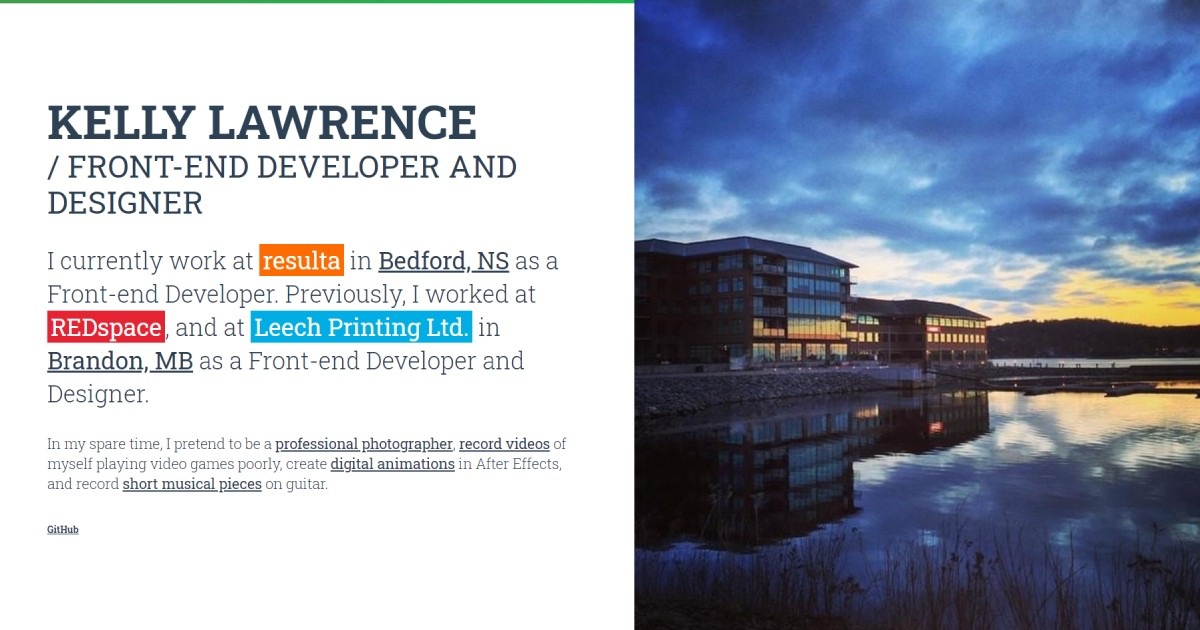
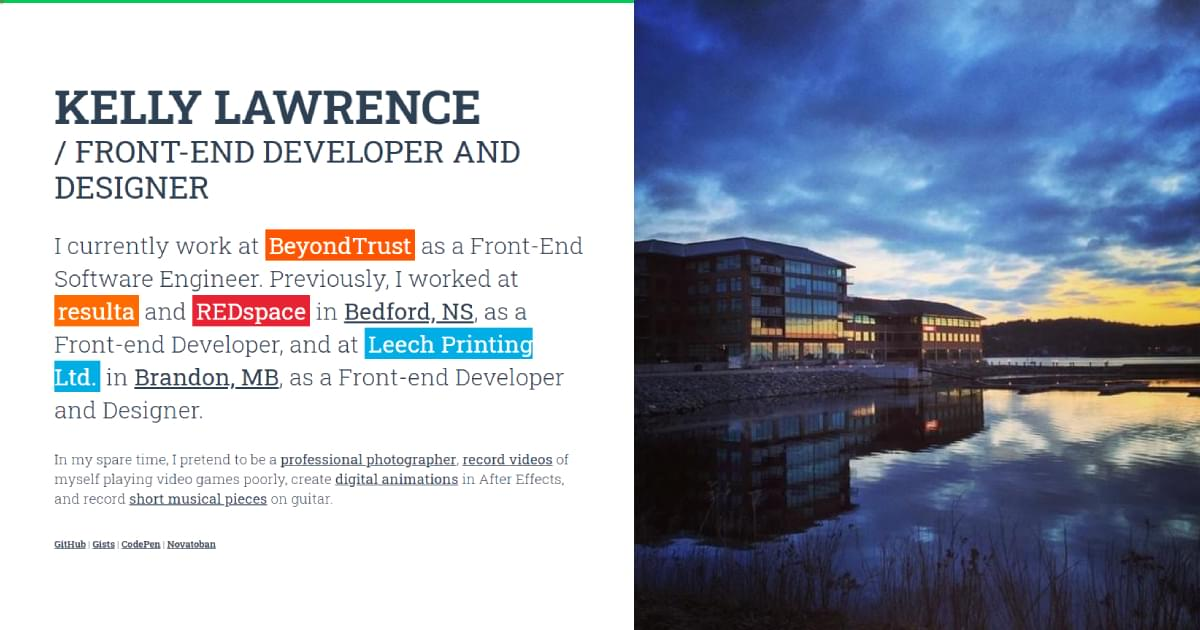
Update employment history

diff --git a/style.css b/style.css
@@ -1,2 +1,2 @@
-a,abbr,acronym,address,applet,article,aside,audio,b,big,blockquote,body,canvas,caption,center,cite,code,dd,del,details,dfn,div,dl,dt,em,embed,fieldset,figcaption,figure,footer,form,h1,h2,h3,h4,h5,h6,header,hgroup,html,i,iframe,img,ins,kbd,label,legend,li,mark,menu,nav,object,ol,output,p,pre,q,ruby,s,samp,section,small,span,strike,strong,sub,summary,sup,table,tbody,td,tfoot,th,thead,time,tr,tt,u,ul,var,video{margin:0;padding:0;border:0;font-size:100%;font:inherit;vertical-align:baseline}article,aside,details,figcaption,figure,footer,header,hgroup,menu,nav,section{display:block}body{line-height:1}ol,ul{list-style:none}blockquote,q{quotes:none}blockquote:after,blockquote:before,q:after,q:before{content:"";content:none}table{border-collapse:collapse;border-spacing:0}a{font-weight:400}body{font-family:Roboto Slab,serif;font-size:16px;line-height:1.4}h1{font-size:calc(1.65vw + 1.65vh);line-height:1.15;text-transform:uppercase}@media (max-width:767px){h1{font-size:calc(2.5vw + 2.5vh)}}@media (min-width:1921px){h1{font-size:calc(1.25vw + 1.25vh)}}h1 strong{font-size:1.5em;font-weight:700}p{font-size:calc(.75vw + .75vh);font-weight:300}@media (max-width:767px){p{font-size:calc(1.5vw + 1.5vh)}}@media (min-width:1921px){p{font-size:calc(.5vw + .5vh)}}strong{font-weight:600}.intro{font-size:calc(1.25vw + 1.25vh)}@media (max-width:767px){.intro{font-size:calc(2vw + 2vh)}}@media (min-width:1921px){.intro{font-size:calc(1vw + 1vh)}}.location{font-weight:100}.location a{font-weight:400;text-decoration:none}.web-presence{font-size:calc(.5vw + .5vh)}@media (max-width:767px){.web-presence{font-size:calc(1vw + 1vh)}}.web-presence a{font-weight:700}.employer{text-decoration:none}::-moz-selection{background-color:#2e4154;color:#fff}::selection{background-color:#2e4154;color:#fff}@media (prefers-color-scheme:dark){::-moz-selection{background-color:#b8cad8}::selection{background-color:#b8cad8}}a{color:#2e4154}@media (prefers-color-scheme:dark){a{color:#b8cad8}}a:hover{background-color:#2e4154;color:#fff}@media (prefers-color-scheme:dark){a:hover{background-color:#b8cad8;color:#181a1b}}body{color:#2e4154}@media (prefers-color-scheme:dark){body{background-color:#181a1b;color:#b8cad8}}@media (min-width:768px){body{width:100%}}body,html{height:100%}h1 strong{display:block}iframe{height:100%;left:-25%;position:relative;width:150%}video{width:100%}.content{align-items:center;display:flex;height:100%;justify-content:center;padding:0 4%;width:42%}.content:before{position:absolute;top:0}@media (max-width:767px){.content{padding:0 5%;width:90%}}.gradient-animation{-webkit-animation:AnimationName 15s ease infinite;animation:AnimationName 15s ease infinite;background:linear-gradient(90deg,#ff6b00,#00aee5,#e72233,#0c5);background-size:1000% 1000%;height:.5%;position:absolute;top:0;width:100%;z-index:0}@-webkit-keyframes AnimationName{0%{background-position:0 50%}50%{background-position:100% 50%}to{background-position:0 50%}}@keyframes AnimationName{0%{background-position:0 50%}50%{background-position:100% 50%}to{background-position:0 50%}}.hero{background-color:#ddd;background-position:50%;background-size:cover;height:100%;overflow:hidden;width:50%}@media (prefers-color-scheme:dark){.hero{background-color:#242729}}@media (max-width:767px){.hero{display:none;height:30vh;margin:5% 0 0;width:100%}}@media (min-width:768px){.hero{position:absolute;right:0;top:0}}.intro{padding:calc(1.25vw + 1.25vh) 0}@media (max-width:767px){.intro{padding:calc(2vw + 2vh) 0}}@media (min-width:1921px){.intro{padding:calc(1vw + 1vh) 0}}.location{background-color:#2e4154;bottom:7.5%;color:#fff;position:absolute;right:7%}@media (prefers-color-scheme:dark){.location{background-color:#181a1b;color:#b8cad8}}.location a{color:#fff;display:block;margin:5px}.web-presence{margin:5.5% 0 0}.employer{padding:0 5px}.employer:hover{background-color:#2e4154;color:#fff}@media (prefers-color-scheme:dark){.employer:hover{background-color:#b8cad8;color:#181a1b}}.resulta{background-color:#ff6b00;color:#fff}.leech{background-color:#00aee5;color:#fff}.redspace{background-color:#e72233;color:#fff}
[1 lines of base64/hex data omitted]
+a,abbr,acronym,address,applet,article,aside,audio,b,big,blockquote,body,canvas,caption,center,cite,code,dd,del,details,dfn,div,dl,dt,em,embed,fieldset,figcaption,figure,footer,form,h1,h2,h3,h4,h5,h6,header,hgroup,html,i,iframe,img,ins,kbd,label,legend,li,mark,menu,nav,object,ol,output,p,pre,q,ruby,s,samp,section,small,span,strike,strong,sub,summary,sup,table,tbody,td,tfoot,th,thead,time,tr,tt,u,ul,var,video{margin:0;padding:0;border:0;font-size:100%;font:inherit;vertical-align:baseline}article,aside,details,figcaption,figure,footer,header,hgroup,menu,nav,section{display:block}body{line-height:1}ol,ul{list-style:none}blockquote,q{quotes:none}blockquote:after,blockquote:before,q:after,q:before{content:"";content:none}table{border-collapse:collapse;border-spacing:0}a{font-weight:400}body{font-family:Roboto Slab,serif;font-size:16px;line-height:1.4}h1{font-size:calc(1.65vw + 1.65vh);line-height:1.15;text-transform:uppercase}@media (max-width:767px){h1{font-size:calc(2.5vw + 2.5vh)}}@media (min-width:1921px){h1{font-size:calc(1.25vw + 1.25vh)}}h1 strong{font-size:1.5em;font-weight:700}p{font-size:calc(.75vw + .75vh);font-weight:300}@media (max-width:767px){p{font-size:calc(1.5vw + 1.5vh)}}@media (min-width:1921px){p{font-size:calc(.5vw + .5vh)}}strong{font-weight:600}.intro{font-size:calc(1.25vw + 1.25vh)}@media (max-width:767px){.intro{font-size:calc(2vw + 2vh)}}@media (min-width:1921px){.intro{font-size:calc(1vw + 1vh)}}.location{font-weight:100}.location a{font-weight:400;text-decoration:none}.web-presence{font-size:calc(.5vw + .5vh)}@media (max-width:767px){.web-presence{font-size:calc(1vw + 1vh)}}.web-presence a{font-weight:700}.employer{text-decoration:none}::-moz-selection{background-color:#2e4154;color:#fff}::selection{background-color:#2e4154;color:#fff}@media (prefers-color-scheme:dark){::-moz-selection{background-color:#b8cad8}::selection{background-color:#b8cad8}}a{color:#2e4154}@media (prefers-color-scheme:dark){a{color:#b8cad8}}a:hover{background-color:#2e4154;color:#fff}@media (prefers-color-scheme:dark){a:hover{background-color:#b8cad8;color:#181a1b}}body{color:#2e4154}@media (prefers-color-scheme:dark){body{background-color:#181a1b;color:#b8cad8}}@media (min-width:768px){body{width:100%}}body,html{height:100%}h1 strong{display:block}iframe{height:100%;left:-25%;position:relative;width:150%}video{width:100%}.content{align-items:center;display:flex;height:100%;justify-content:center;padding:0 4%;width:42%}.content:before{position:absolute;top:0}@media (max-width:767px){.content{padding:0 5%;width:90%}}.gradient-animation{-webkit-animation:AnimationName 15s ease-in-out infinite;animation:AnimationName 15s ease-in-out infinite;background:linear-gradient(90deg,#f50,#00aee5,#e72233,#0c5,#ff6b00);background-size:1000% 1000%;height:.5%;position:absolute;top:0;width:100%;z-index:0}@-webkit-keyframes AnimationName{0%{background-position:0 50%}50%{background-position:100% 50%}to{background-position:0 50%}}@keyframes AnimationName{0%{background-position:0 50%}50%{background-position:100% 50%}to{background-position:0 50%}}.hero{background-color:#ddd;background-position:50%;background-size:cover;height:100%;overflow:hidden;width:50%}@media (prefers-color-scheme:dark){.hero{background-color:#242729}}@media (max-width:767px){.hero{display:none;height:30vh;margin:5% 0 0;width:100%}}@media (min-width:768px){.hero{position:absolute;right:0;top:0}}.intro{padding:calc(1.25vw + 1.25vh) 0}@media (max-width:767px){.intro{padding:calc(2vw + 2vh) 0}}@media (min-width:1921px){.intro{padding:calc(1vw + 1vh) 0}}.location{background-color:#2e4154;bottom:7.5%;color:#fff;position:absolute;right:7%}@media (prefers-color-scheme:dark){.location{background-color:#181a1b;color:#b8cad8}}.location a{color:#fff;display:block;margin:5px}.web-presence{margin:5.5% 0 0}.employer{padding:0 5px}.employer:hover{background-color:#2e4154;color:#fff}@media (prefers-color-scheme:dark){.employer:hover{background-color:#b8cad8;color:#181a1b}}.bt{background-color:#f50;color:#fff}.leech{background-color:#00aee5;color:#fff}.redspace{background-color:#e72233;color:#fff}.resulta{background-color:#ff6b00;color:#fff}
[1 lines of base64/hex data omitted]

diff --git a/index.html b/index.html
@@ -1,1 +1,1 @@
-<!DOCTYPE html><html lang="en"><head><meta charset="UTF-8"><meta content="width=device-width,initial-scale=1" name="viewport"><meta content="ie=edge" http-equiv="X-UA-Compatible"><title>Kelly Lawrence | Front-end Developer And Designer</title><link href="images/favicon/apple-touch-icon.png" rel="apple-touch-icon" sizes="180x180"><link href="images/favicon/favicon-32x32.png" rel="icon" sizes="32x32" type="image/png"><link href="images/favicon/favicon-16x16.png" rel="icon" sizes="16x16" type="image/png"><link href="site.webmanifest" rel="manifest"><meta content="Kelly Lawrence is a Front-End Develper and Designer based out of Bedford, Nova Scotia, Canada." name="description"><meta content="Kelly Lawrence | Front-end Developer And Designer" name="apple-mobile-web-app-title"><meta content="Kelly Lawrence | Front-end Developer And Designer" name="application-name"><meta content="#ffffff" name="msapplication-TileColor"><meta content="#ffffff" name="theme-color"><meta content="Kelly Lawrence | Front-end Developer And Designer" property="og:title"><meta content="Kelly Lawrence | Front-end Developer And Designer" property="og:site_name"><meta content="https://www.kellylawrence.ca" property="og:url"><meta content="" property="og:description"><meta content="website" property="og:type"><meta content="https://www.kellylawrence.ca/images/opengraph.jpg" property="og:image"><meta content="image/jpeg" property="og:image:type"><meta content="1200" property="og:image:width"><meta content="630" property="og:image:height"><meta content="Paragraphs of text on the left hand side, and a scenic photo of the Bedford Basin on the right." property="og:image:alt"><link href="style.css" rel="stylesheet"><link href="https://fonts.googleapis.com/css?family=Roboto+Slab:300,400,700&display=swap" rel="stylesheet"></head><body><div class="content"><div class="gradient-animation"></div><div class="container"><h1><strong>Kelly Lawrence</strong> / Front-end Developer And Designer</h1><p class="intro">I currently work as a <strong>Front-End Software Engineer</strong>. Previously, I worked at <a class="employer resulta" href="https://www.resulta.com/">resulta</a> and <a class="employer redspace" href="https://www.redspace.com/">REDspace</a> in <a href="https://en.wikipedia.org/wiki/Bedford,_Nova_Scotia">Bedford, NS</a>, as a Front-end Developer, and at <a class="employer leech" href="http://leechprint.com/">Leech Printing Ltd.</a> in <a href="https://en.wikipedia.org/wiki/Brandon,_Manitoba">Brandon, MB</a>, as a Front-end Developer and Designer.</p><p>In my spare time, I pretend to be a <a href="https://www.instagram.com/probably.batman/">professional photographer</a>, <a href="https://www.youtube.com/c/KellyLawrence-Master-of-the-Universe">record videos</a> of myself playing video games poorly, create <a href="https://vimeo.com/kellylawrence">digital animations</a> in After Effects, and record <a href="https://soundcloud.com/kellylawrence">short musical pieces</a> on guitar.</p><p class="web-presence"><a href="https://github.com/kellylawrence">GitHub</a> | <a href="https://gist.github.com/kellylawrence">Gists</a> | <a href="https://codepen.io/kellylawrence">CodePen</a> | <a href="https://novatoban.ca">Novatoban</a></p></div></div><div class="hero"></div><script>function getRandomIntInclusive(e,o){return e=Math.ceil(e),o=Math.floor(o),Math.floor(Math.random()*(o-e+1))+e}var randomNum=getRandomIntInclusive(1,18),hero=document.getElementsByClassName("hero");hero[0].style.backgroundImage="url(images/heroes/"+randomNum+".jpg)";</script></body></html>
+<!DOCTYPE html><html lang="en"><head><meta charset="UTF-8"><meta content="width=device-width,initial-scale=1" name="viewport"><meta content="ie=edge" http-equiv="X-UA-Compatible"><title>Kelly Lawrence | Front-end Developer And Designer</title><link href="images/favicon/apple-touch-icon.png" rel="apple-touch-icon" sizes="180x180"><link href="images/favicon/favicon-32x32.png" rel="icon" sizes="32x32" type="image/png"><link href="images/favicon/favicon-16x16.png" rel="icon" sizes="16x16" type="image/png"><link href="site.webmanifest" rel="manifest"><meta content="Kelly Lawrence is a Front-End Develper and Designer based out of Bedford, Nova Scotia, Canada." name="description"><meta content="Kelly Lawrence | Front-end Developer And Designer" name="apple-mobile-web-app-title"><meta content="Kelly Lawrence | Front-end Developer And Designer" name="application-name"><meta content="#ffffff" name="msapplication-TileColor"><meta content="#ffffff" name="theme-color"><meta content="Kelly Lawrence | Front-end Developer And Designer" property="og:title"><meta content="Kelly Lawrence | Front-end Developer And Designer" property="og:site_name"><meta content="https://www.kellylawrence.ca" property="og:url"><meta content="" property="og:description"><meta content="website" property="og:type"><meta content="https://www.kellylawrence.ca/images/opengraph.jpg" property="og:image"><meta content="image/jpeg" property="og:image:type"><meta content="1200" property="og:image:width"><meta content="630" property="og:image:height"><meta content="Paragraphs of text on the left hand side, and a scenic photo of the Bedford Basin on the right." property="og:image:alt"><link href="style.css" rel="stylesheet"><link href="https://fonts.googleapis.com/css?family=Roboto+Slab:300,400,700&display=swap" rel="stylesheet"></head><body><div class="content"><div class="gradient-animation"></div><div class="container"><h1><strong>Kelly Lawrence</strong> / Front-end Developer And Designer</h1><p class="intro">I currently work at <a class="employer bt" href="https://www.beyondtrust.com/">BeyondTrust</a> as a Front-End Software Engineer. Previously, I worked at <a class="employer resulta" href="https://www.resulta.com/">resulta</a> and <a class="employer redspace" href="https://www.redspace.com/">REDspace</a> in <a href="https://en.wikipedia.org/wiki/Bedford,_Nova_Scotia">Bedford, NS</a>, as a Front-end Developer, and at <a class="employer leech" href="http://leechprint.com/">Leech Printing Ltd.</a> in <a href="https://en.wikipedia.org/wiki/Brandon,_Manitoba">Brandon, MB</a>, as a Front-end Developer and Designer.</p><p>In my spare time, I pretend to be a <a href="https://www.instagram.com/probably.batman/">professional photographer</a>, <a href="https://www.youtube.com/c/KellyLawrence-Master-of-the-Universe">record videos</a> of myself playing video games poorly, create <a href="https://vimeo.com/kellylawrence">digital animations</a> in After Effects, and record <a href="https://soundcloud.com/kellylawrence">short musical pieces</a> on guitar.</p><p class="web-presence"><a href="https://github.com/kellylawrence">GitHub</a> | <a href="https://gist.github.com/kellylawrence">Gists</a> | <a href="https://codepen.io/kellylawrence">CodePen</a> | <a href="https://novatoban.ca">Novatoban</a></p></div></div><div class="hero"></div><script>function getRandomIntInclusive(e,o){return e=Math.ceil(e),o=Math.floor(o),Math.floor(Math.random()*(o-e+1))+e}var randomNum=getRandomIntInclusive(1,20),hero=document.getElementsByClassName("hero");hero[0].style.backgroundImage="url(images/heroes/"+randomNum+".jpg)";</script></body></html>
